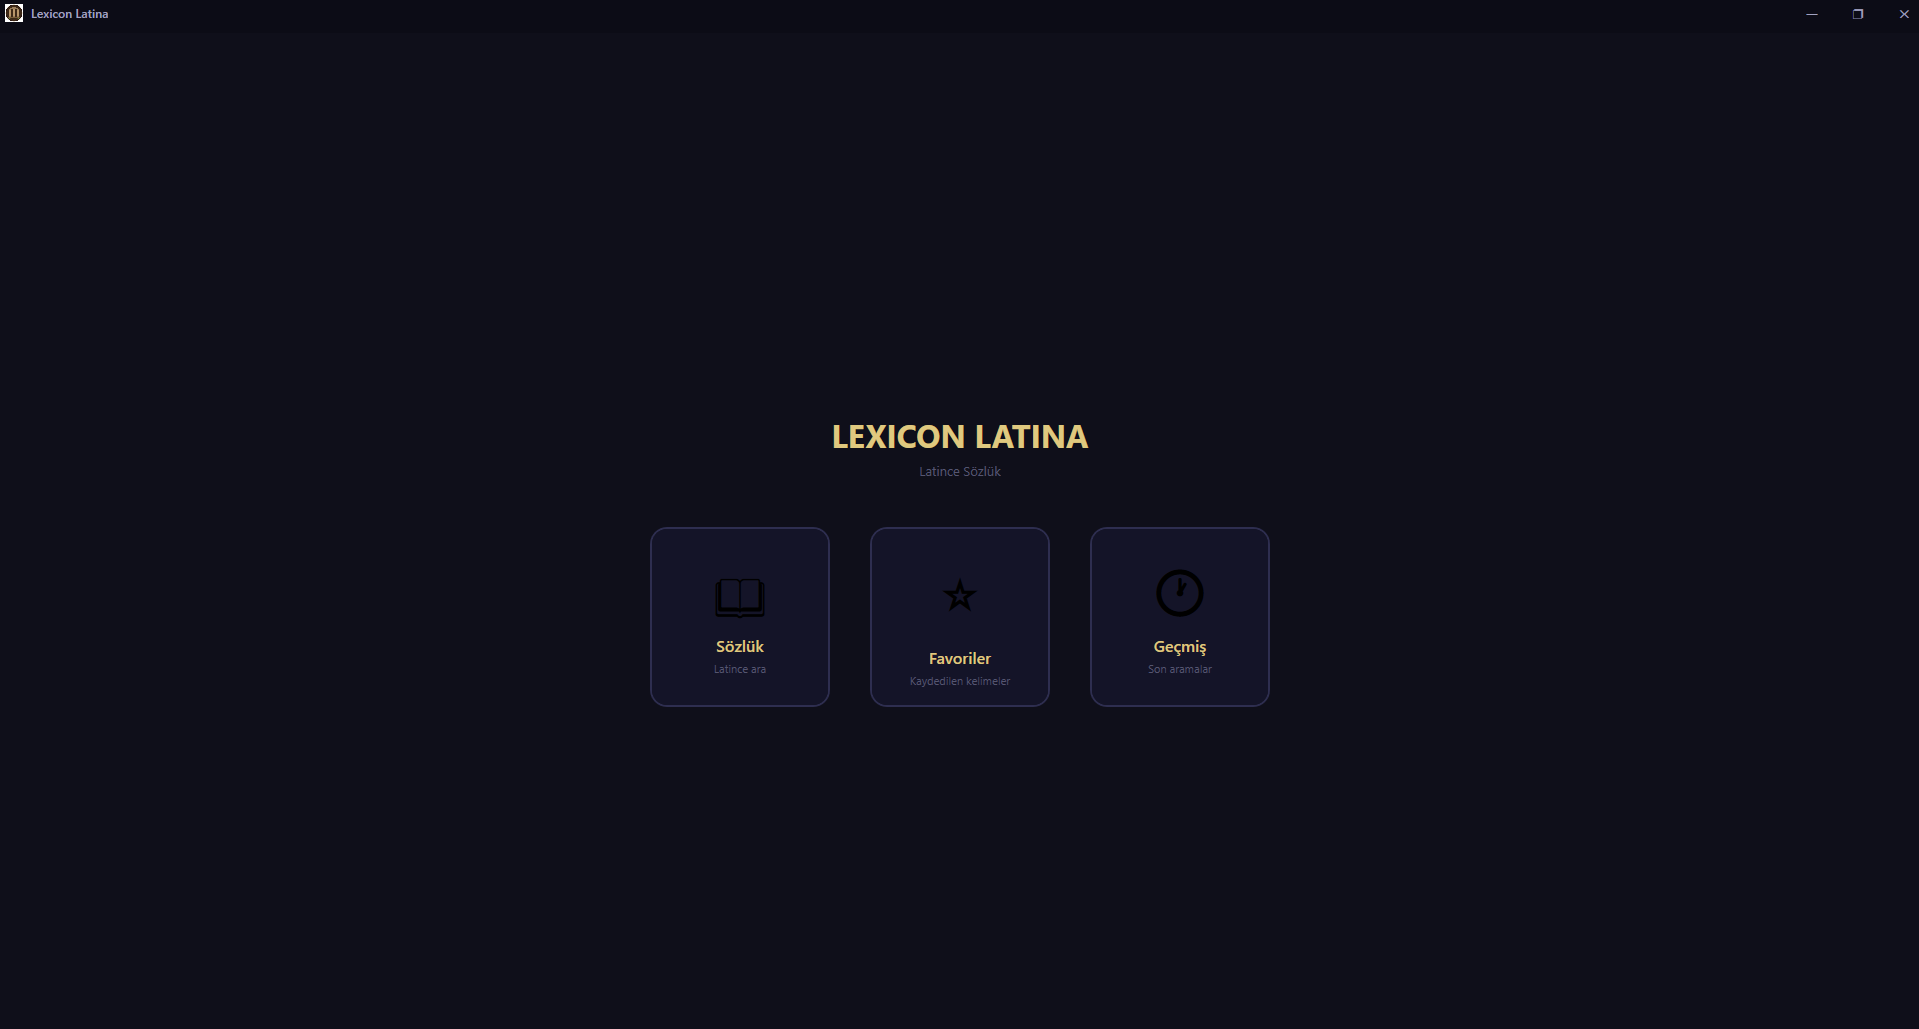
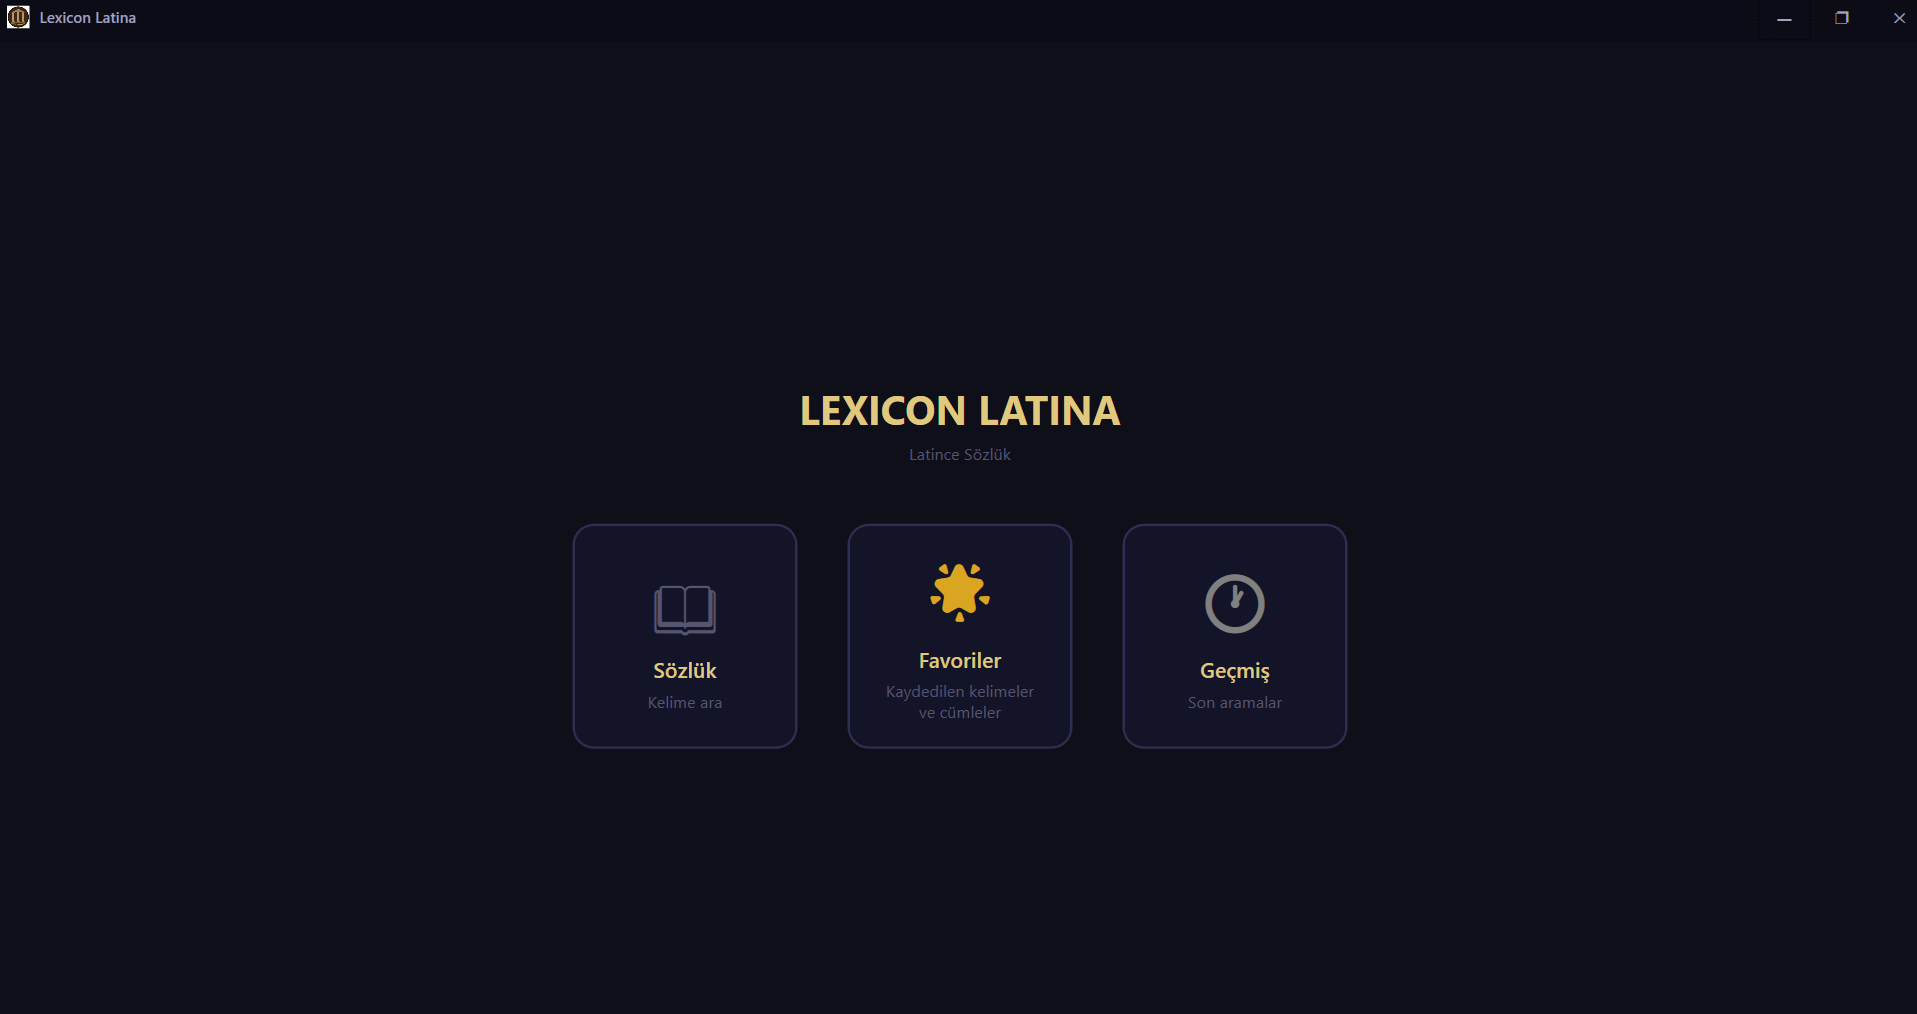
images and readme

diff --git a/README.md b/README.md
@@ -39,6 +39,12 @@ Türkçe kelimelerden Latince karşılıklarını bulan Windows masaüstü sözl
 
 ---
 
+## Veri Saklama
+
+Arama geçmişi ve favorileriniz yerel olarak bilgisayarınızda şu dizine kaydedilir:
+`C:\Users\<Kullanıcı_Adı>\AppData\Local\LexiconLatina` (veya `%LocalAppData%\LexiconLatina`)
+
+---
 ## Teknoloji
 
 - .NET 10.0 / WPF
